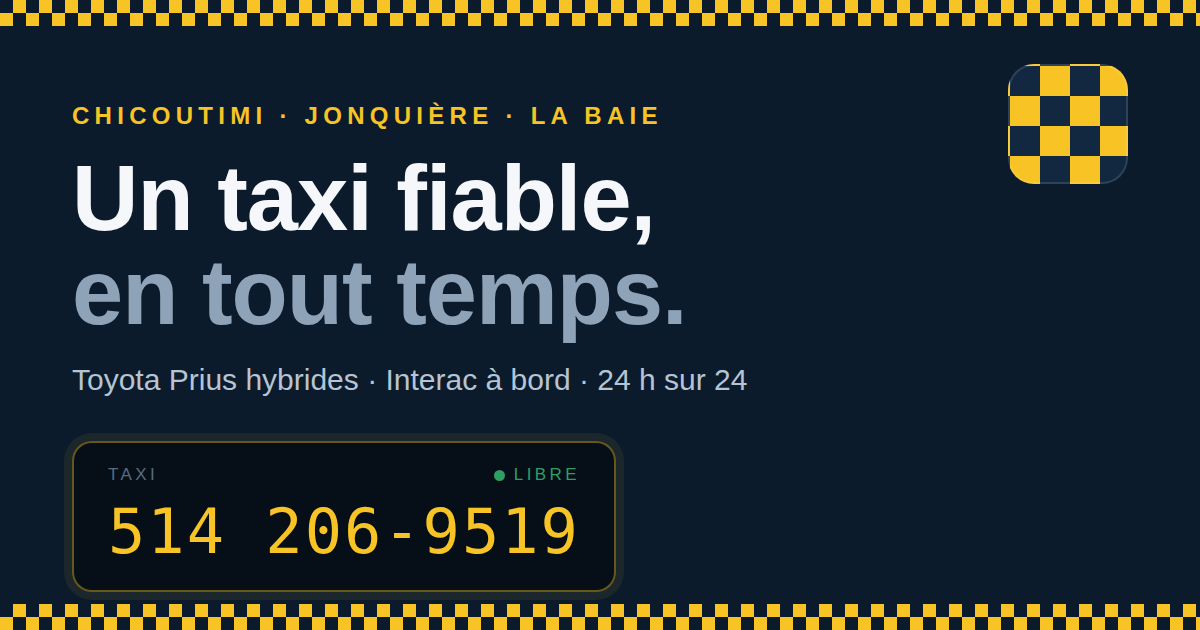
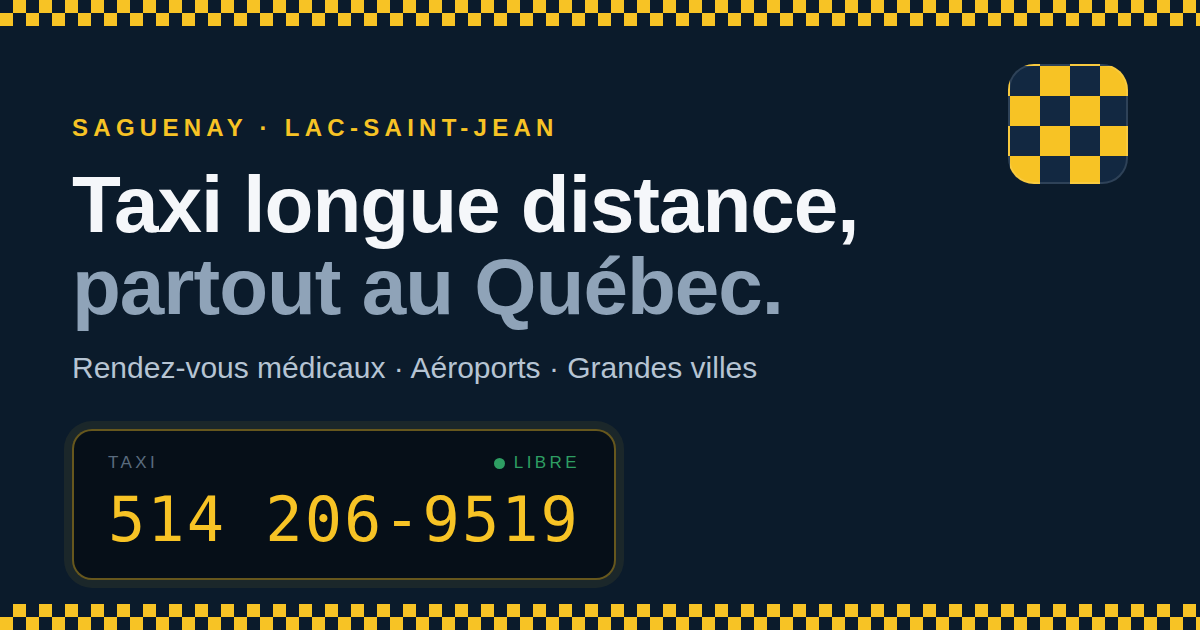
Page réorientée vers la longue distance
Titre « Taxi longue distance, partout au Québec ». Les quatre services
deviennent rendez-vous médicaux hors région, aéroports et gares,
voyages vers les grandes villes et déplacements planifiés ; les courses
locales et les retours de soirée disparaissent. « Tarif officiel au
compteur » devient « Prix confirmé avant le départ ». La destination
devient obligatoire dans le formulaire puisqu'elle détermine le prix.
Image de partage et fiche JSON-LD refaites. Le site reste en noindex.

Validé par 80 tests.

diff --git a/index.html b/index.html
@@ -424,10 +424,10 @@
     "target": "https://kouadrirached-cmyk.github.io/Taxi-saguenay-/#reserver"
   },
   "makesOffer": [
-    { "@type": "Offer", "itemOffered": { "@type": "Service", "name": "Transport vers l'aéroport de Bagotville" } },
-    { "@type": "Offer", "itemOffered": { "@type": "Service", "name": "Transport pour rendez-vous médicaux" } },
-    { "@type": "Offer", "itemOffered": { "@type": "Service", "name": "Courses et déplacements quotidiens" } },
-    { "@type": "Offer", "itemOffered": { "@type": "Service", "name": "Retours de soirée sécuritaires" } }
+    { "@type": "Offer", "itemOffered": { "@type": "Service", "name": "Transport longue distance pour rendez-vous médicaux hors région" } },
+    { "@type": "Offer", "itemOffered": { "@type": "Service", "name": "Transport vers les aéroports et les gares" } },
+    { "@type": "Offer", "itemOffered": { "@type": "Service", "name": "Voyages vers Québec, Montréal et les grandes villes" } },
+    { "@type": "Offer", "itemOffered": { "@type": "Service", "name": "Déplacements planifiés à l\u2019avance, aller simple ou aller-retour" } }
   ]
 }
 </script>
@@ -444,7 +444,7 @@
 <main>
   <div class="hero">
     <p class="sur-titre">Saguenay · Lac-Saint-Jean</p>
-    <h1>Un taxi fiable,<br><span class="fin">en tout temps.</span></h1>
+    <h1>Taxi longue distance,<br><span class="fin">partout au Québec.</span></h1>
     <p class="sous">Transport longue distance au départ de toute la région : rendez-vous médicaux hors région, aéroports, gares et déplacements planifiés. Un chauffeur professionnel, une voiture propre, un prix convenu d'avance.</p>
 
     <a class="taximetre" href="tel:+15142069519" aria-label="Appeler le 514 206-9519">
@@ -453,7 +453,7 @@
       <span class="action">📞 Touchez pour appeler</span>
     </a>
 
-    <p class="dispo">Réponse rapide · Paiement Interac et comptant</p>
+    <p class="dispo">Prix confirmé avant le départ · Interac et comptant</p>
 
     <div><a class="lien-reserver" href="#reserver">✍ Ou réservez par message</a></div>
   </div>
@@ -462,27 +462,27 @@
 
   <section id="services">
     <h2 class="titre-section">Nos services</h2>
-    <p class="intro-section">Peu importe le trajet, on vous amène à destination en toute sécurité.</p>
+    <p class="intro-section">Des trajets planifiés à l'avance, au départ de n'importe quelle municipalité de la région.</p>
     <div class="grille-services">
       <div class="carte">
-        <span class="ico">✈</span>
-        <h3>Aéroport de Bagotville</h3>
-        <p>Transport ponctuel vers et depuis l'aéroport. Réservez à l'avance pour garantir votre départ.</p>
-      </div>
-      <div class="carte">
         <span class="ico">🏥</span>
-        <h3>Rendez-vous médicaux</h3>
-        <p>Hôpital, cliniques, pharmacies. Un service patient et attentionné, adapté à vos horaires.</p>
+        <h3>Rendez-vous médicaux hors région</h3>
+        <p>Vers les grands hôpitaux et cliniques spécialisées de Québec ou d'ailleurs. On vous attend et on vous ramène le même jour si vous le souhaitez.</p>
       </div>
       <div class="carte">
-        <span class="ico">🛒</span>
-        <h3>Courses et déplacements</h3>
-        <p>Épicerie, magasinage, sorties. Le quotidien simplifié, sans souci de stationnement.</p>
+        <span class="ico">✈</span>
+        <h3>Aéroports et gares</h3>
+        <p>Aéroport de Québec, de Montréal, gares d'autobus et de train. Départ à l'heure qu'il faut pour votre vol, bagages compris.</p>
       </div>
       <div class="carte">
-        <span class="ico">🌙</span>
-        <h3>Soirées et retours sécuritaires</h3>
-        <p>Rentrez chez vous en toute sécurité après une soirée, à toute heure.</p>
+        <span class="ico">🛣</span>
+        <h3>Voyages vers les grandes villes</h3>
+        <p>Québec, Montréal, Trois-Rivières et partout au Québec. Aller simple ou aller-retour, à l'heure qui vous convient.</p>
+      </div>
+      <div class="carte">
+        <span class="ico">📅</span>
+        <h3>Déplacements planifiés</h3>
+        <p>Visite familiale, rendez-vous d'affaires, transfert : réservez d'avance et la voiture est là, à l'heure dite.</p>
       </div>
     </div>
   </section>
@@ -493,8 +493,8 @@
     <div class="flotte">
       <div class="txt">
         <h3>Toyota Prius hybrides</h3>
-        <p>Notre flotte de Toyota Prius offre un trajet silencieux, confortable et écologique. Véhicules propres, inspectés régulièrement et conduits par des chauffeurs d'expérience.</p>
-        <span class="badge-eco">🌱 Hybride — moins d'émissions, même fiabilité</span>
+        <p>Sur un long trajet, l'hybride change tout : silence, confort et consommation réduite d'un bout à l'autre de la route. Véhicules propres, inspectés régulièrement et conduits par des chauffeurs d'expérience.</p>
+        <span class="badge-eco">🌱 Hybride — pensée pour la route</span>
       </div>
     </div>
 
@@ -532,7 +532,7 @@
       <div class="carte">
         <h3 style="margin-bottom:14px">Paiement et tarifs</h3>
         <ul class="liste-simple">
-          <li><span class="coche">✓</span> Tarif officiel au compteur</li>
+          <li><span class="coche">✓</span> Prix confirmé avant le départ</li>
           <li><span class="coche">✓</span> Interac / carte de débit à bord</li>
           <li><span class="coche">✓</span> Argent comptant accepté</li>
           <li><span class="coche">✓</span> Reçu disponible sur demande</li>
@@ -561,8 +561,8 @@
         <input id="r-depart" name="depart" type="text" autocomplete="street-address" placeholder="Votre adresse et votre municipalité" required>
       </div>
       <div class="champ">
-        <label for="r-dest">Destination</label>
-        <input id="r-dest" name="destination" type="text" placeholder="Aéroport de Bagotville">
+        <label for="r-dest">Destination <span class="oblig" aria-hidden="true">*</span></label>
+        <input id="r-dest" name="destination" type="text" placeholder="Hôpital de Québec, aéroport de Montréal…">
       </div>
       <div class="duo">
         <div class="champ">
@@ -602,7 +602,7 @@
   <div class="damier" aria-hidden="true"></div>
 
   <div class="final">
-    <h2>Besoin d'un taxi maintenant?</h2>
+    <h2>Planifions votre trajet.</h2>
     <a class="taximetre" href="tel:+15142069519" aria-label="Appeler le 514 206-9519">
       <span class="etiquette"><span>Taxi</span><span class="libre">Libre</span></span>
       <span class="numero">514 206-9519</span>
@@ -659,10 +659,10 @@
   function val(id){return (document.getElementById(id).value||'').trim();}
 
   function message(){
-    var nom=val('r-nom'), tel=val('r-tel'), dep=val('r-depart');
-    if(!nom||!tel||!dep){
-      dit('Remplissez votre nom, votre téléphone et l\'adresse de départ.',false);
-      (!nom?document.getElementById('r-nom'):!tel?document.getElementById('r-tel'):document.getElementById('r-depart')).focus();
+    var nom=val('r-nom'), tel=val('r-tel'), dep=val('r-depart'), dest=val('r-dest');
+    if(!nom||!tel||!dep||!dest){
+      dit('Remplissez votre nom, votre téléphone, le départ et la destination.',false);
+      document.getElementById(!nom?'r-nom':!tel?'r-tel':!dep?'r-depart':'r-dest').focus();
       return null;
     }
     var quandTxt='Le plus tôt possible';
@@ -676,8 +676,8 @@
     var l=['Bonjour, demande de taxi :',
       'Nom : '+nom,
       'Téléphone : '+tel,
-      'Départ : '+dep];
-    var dest=val('r-dest'); if(dest)l.push('Destination : '+dest);
+      'Départ : '+dep,
+      'Destination : '+dest];
     l.push('Quand : '+quandTxt);
     l.push('Passagers : '+val('r-pass'));
     var note=val('r-note'); if(note)l.push('Remarque : '+note);
